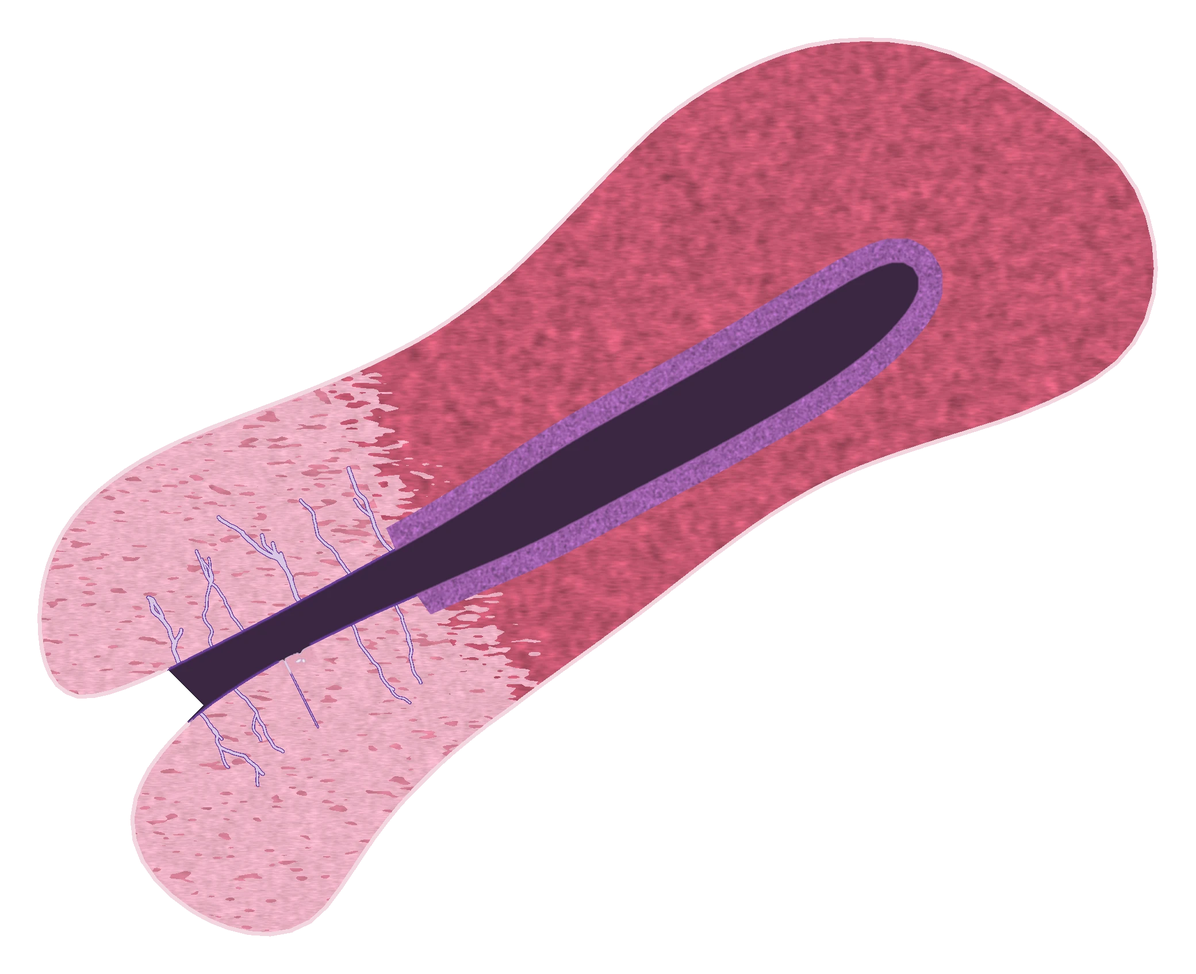
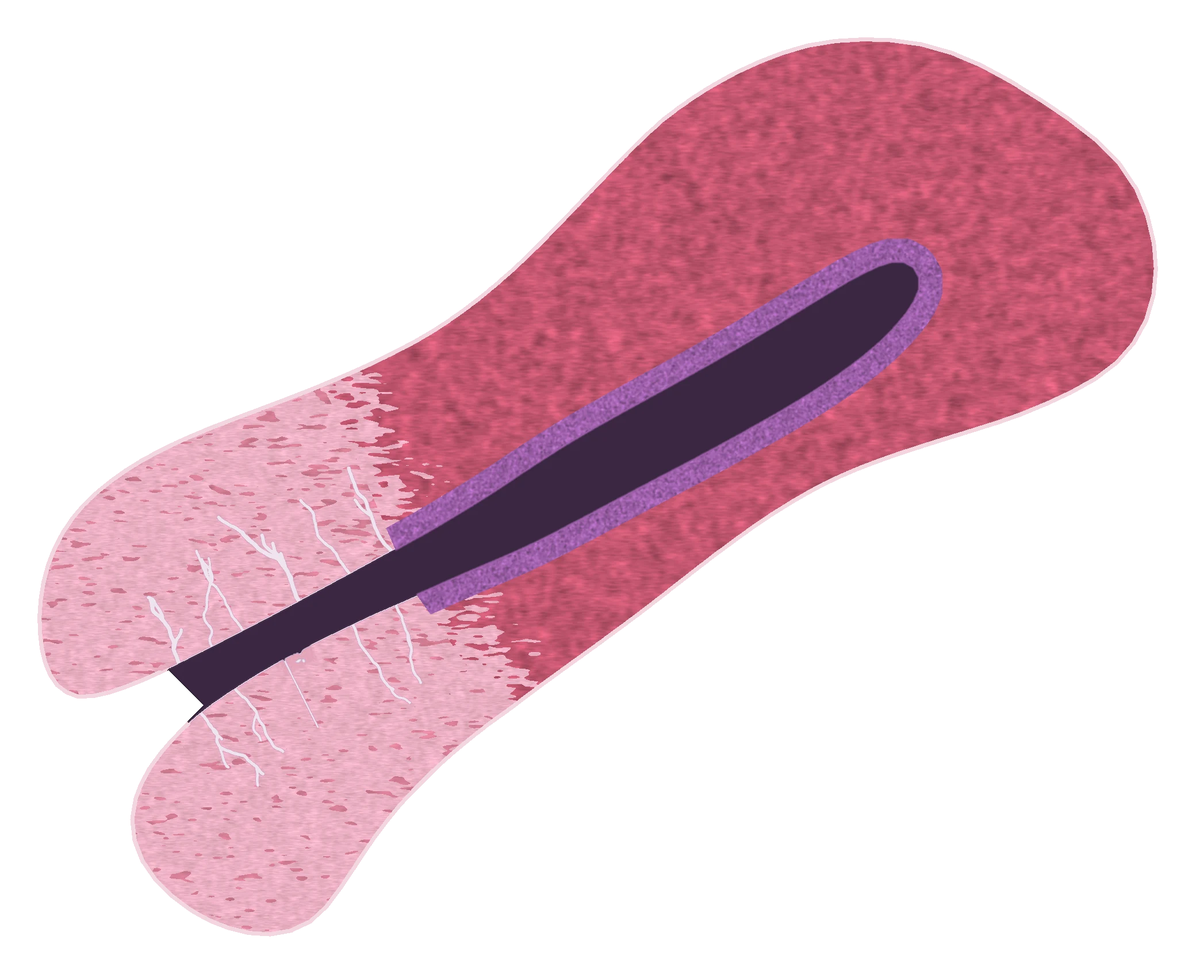
Slides say what they are, slower changes, the film comes back, matched lining
- Each photograph beside the 3D first says what it is (a heading and a line),
  then fades in; the tissue slide stays longer (Z 2.86-3.25)
- Organ to tissue slower (step 2.8, blend 2.74-2.94); organelles to molecules
  slower (step 1.5, blend 5.28-5.72, 9 s by the button)
- The film: back at the cell after going up and in again; its button checked
  at every step (it never came back before)
- Mitochondria panel fits a laptop screen: the picture sized by the screen's
  height, the buttons beside it; step 7 seen from the angle that shows both
  places the tube crosses the photograph (searched), the tube see-through
- The organ's face: the cervix's lining painted as the tissue model has it
  (pale cells, nuclei row at the base), not a purple band twice too wide; the
  sharp patch no longer differs from the face round it
- A stop within 0.12 of a level settles on it (names show only at a level)

diff --git a/js/cell3d.js b/js/cell3d.js
@@ -26,7 +26,7 @@ import { GLTFLoader } from './vendor/three/examples/jsm/loaders/GLTFLoader.js?v=
 import { OrbitControls } from './vendor/three/examples/jsm/controls/OrbitControls.js?v=0.185.1';
 import { MeshoptDecoder } from './vendor/three/examples/jsm/libs/meshopt_decoder.module.js?v=0.185.1';
 import { mergeVertices } from './vendor/three/examples/jsm/utils/BufferGeometryUtils.js?v=0.185.1';
-import { build as buildTissue } from './tissue3d.js?v=1791084893';
+import { build as buildTissue } from './tissue3d.js?v=1791086809';
 
 export const LEVELS = ['organism', 'system', 'organ', 'tissue', 'cell', 'inside', 'molecules'];
 const GROUP = { organism: 'body', system: 'body', organ: 'body', tissue: 'tissue', cell: 'cell', inside: 'inside', molecules: 'mol' };
@@ -133,10 +133,12 @@ const ahead = (s, side = 0, up = 0) => {             // a point s µm on along t
 // the detailed region (build_meshes.SCENE_UM), cell frame: the cytoplasm beside the nucleus, on its left, where the cell
 // is thickest with no nucleus over it, so the zoom dives straight down into it through the cell membrane
 const BOX = { lo: [-17.85, 0.0, -3.8], hi: [-10.35, 4.6, 3.7] };
-const SECONDS = [4, 5, 15, 8, 12, 6];                             // each step down, when a button is pressed
+const SECONDS = [4, 5, 15, 8, 12, 9];                             // each step down, when a button is pressed
 // how much scrolling each step takes (1 = the usual): organ to tissue magnifies 160 times and grows the tissue out
-// of the cut face, so it is given more (Daniel: "make the movement from organ to tissue slower")
-const STEP_LEN = [1, 1, 2.4, 1.2, 1.4, 1];
+// of the cut face, so it is given more (Daniel: "make the movement from organ to tissue slower"; and again on 4 Oct,
+// the change from the cut face to the tissue was too fast: 2.4 -> 2.8, the blend 2.74-2.94; and from the organelles to
+// the molecules, "like boom": 1 -> 1.5, the blend 5.35-5.6 -> 5.28-5.72)
+const STEP_LEN = [1, 1, 2.8, 1.2, 1.4, 1.5];
 
 const sm = (x, a, b) => THREE.MathUtils.smoothstep(x, a, b);
 // a module loaded later, tried three times (a weak connection drops one now and then; a browser remembers a failed
@@ -417,18 +419,6 @@ export async function mount(el, opts = {}) {
     tissueCol = tissue.materials.map(m => (m.color ? m.color.clone() : null));
     // (names on the cut face are for the cut face: from behind the block they are not shown)
     tissue.labels.forEach(a => anchors.push({ group: 'tissue', frame: 'tissue', p: a.p, cands: a.cands, r: a.r, text: a.text, part: a.part, z: [2.86, 3.3], free: !!a.free, face: a.p[2] > 0 }));
-    // on the way in to the cut face, names close to where the camera goes (the organ's own names, each at one
-    // place far apart, leave the screen as it comes closer): on the face, just in front of it (the organ's face is
-    // 20 µm in front of the cut), several places each, the first one on the screen is used
-    {
-      const cx = trace.block.crypt_x, xs = [0, -160, 160, -320, 320, -480, 480];
-      const near = (text, part, r, cands) => anchors.push({ group: 'body', frame: 'tissue', p: cands[0], cands, r, text, part, z: [2.3, 2.86], free: true, face: true });
-      near('Lining of the canal', 'lining_c', 120, xs.map(x => [x, -25, 21]));
-      // (the connective tissue's name left of the middle, the crypt's on the crypt to the right, lower: names go to the
-      // right of their point and must not meet)
-      near('Cervix: connective tissue', 'connective', 200, [-420, -620, -260, -820].map(x => [x, -420, 21]));
-      near('Crypt: the lining folds into the wall', 'crypt', 120, [-700, -1100, -1500, -1900, -2400].map(y => [cx, y, 21]));
-    }
     // the slice the photograph beside it shows is outlined on the block's cut face (tissue3d's frame)
     slideLine = { material: tissue.frameMat };
     // the one lining cell the zoom goes into has a group of its own: it lifts out of the tissue and spreads flat
@@ -441,8 +431,6 @@ export async function mount(el, opts = {}) {
       G.single.add(dish);
     }
     const b = tissue.target.base;
-    anchors.push({ group: 'single', frame: 'tissue', p: [b[0], b[1] + 20, b[2]], r: 12, text: 'One lining cell', part: 'tcell', z: [3.12, 3.5], free: true, nofog: true, dyn: 'single' });
-    anchors.push({ group: 'single', frame: 'tissue', p: [b[0], b[1] + 20, b[2]], r: 12, text: 'Grown in a dish, a cell like this spreads flat', part: 'tcell', z: [3.54, 3.78], free: true, nofog: true, dyn: 'single' });
     // the HeLa cell sits where that cell has spread: the middle of its base on the middle of the lifted cell's base,
     // turned a quarter turn so that its side with the organelles' box faces the reader arriving from the tissue
     P.cell.makeTranslation(b[0] - 0.9, b[1] + LIFT, b[2] - 0.5).multiply(new THREE.Matrix4().makeRotationY(Math.PI / 2));
@@ -691,15 +679,15 @@ export async function mount(el, opts = {}) {
     cap.visible = Z >= 1.4;
     // which levels are drawn, and how much of each: [layer, weight]
     // tissue to cell: first the spread lining cell becomes the HeLa cell (the tissue stays), then the tissue goes
-    const mixes = [[2.78, 2.92, LAYER.body, LAYER.tissue], [3.70, 3.80, LAYER.tissue, LAYER.dish], [3.83, 3.94, LAYER.dish, LAYER.cell],
-      [4.25, 4.40, LAYER.cell, LAYER.inside], [5.35, 5.6, LAYER.deep, LAYER.mol]];
-    const order = [[2.78, LAYER.body], [3.70, LAYER.tissue], [3.83, LAYER.dish], [4.25, LAYER.cell], [4.985, LAYER.inside], [5.35, LAYER.deep], [9, LAYER.mol]];
+    const mixes = [[2.74, 2.94, LAYER.body, LAYER.tissue], [3.70, 3.80, LAYER.tissue, LAYER.dish], [3.83, 3.94, LAYER.dish, LAYER.cell],
+      [4.25, 4.40, LAYER.cell, LAYER.inside], [5.28, 5.72, LAYER.deep, LAYER.mol]];
+    const order = [[2.74, LAYER.body], [3.70, LAYER.tissue], [3.83, LAYER.dish], [4.25, LAYER.cell], [4.985, LAYER.inside], [5.28, LAYER.deep], [9, LAYER.mol]];
     layers = null;
     for (const [a, b, A, B] of mixes) if (Z > a && Z < b) { const k = sm(Z, a, b); layers = [[A, 1 - k], [B, k]]; }
     if (!layers) layers = [[order.find(([z]) => Z <= z)[1], 1]];
     if (layers.some(([L]) => L === LAYER.mol) && !molApi) layers = [[LAYER.deep, 1]];
     for (const k in fades) fades[k] = layers.reduce((s, [L, w]) => s + (L[k] ? w : 0), 0);
-    patchK = tissue ? sm(Z, 2.4, 2.62) * (Z < 2.92 ? 1 : 0) : 0;
+    patchK = tissue ? sm(Z, 2.4, 2.62) * (Z < 2.94 ? 1 : 0) : 0;
     // the one lining cell the zoom goes into lights up; the slice the photograph shows is outlined
     // then, with the camera close, it rises out of the tissue (3.36-3.52) and spreads flat (3.52-3.70), and the HeLa
     // cell takes its place (3.70-3.80)
@@ -1060,7 +1048,8 @@ export async function mount(el, opts = {}) {
     // when the scrolling stops close to a level, the zoom settles on it (so that the picture can be turned).
     // Never during the scrolling: a trackpad moves Z a hundredth at a time.
     clearTimeout(settle);
-    settle = setTimeout(() => { const r = Math.round(Zt); if (!tween && Math.abs(Zt - r) < 0.08 && Zt !== r) { Zt = r; wake(); } }, 450);
+    // (within 0.12 of a level: the names come only at a level, so stopping just short of one would show none)
+    settle = setTimeout(() => { const r = Math.round(Zt); if (!tween && Math.abs(Zt - r) < 0.12 && Zt !== r) { Zt = r; wake(); } }, 450);
   }
   let settle = 0;
   cv.addEventListener('wheel', e => {

diff --git a/js/mitodemo.js b/js/mitodemo.js
@@ -18,7 +18,7 @@ const STEPS = [
   { ex: 0, cam: 'edge', photo: 0.82, tube: 1, text: 'The slice cuts the tube <b>at a slant</b>. That is why the photograph shows an oval, not a tube.' },
   { ex: 0, cam: 'across', photo: 0, tube: 1, cut: true, text: 'An imagined slice <b>straight across</b> the same tube would show a <b>circle</b>. One tube: a circle, an oval or a long shape, depending on how the slice cuts it.' },
   { ex: 1, cam: 'face', photo: 1, tube: 0, text: 'In the same photograph, these <b>two shapes</b> look like two different mitochondria.' },
-  { ex: 1, cam: 'sheet', photo: 0.6, tube: 1, text: 'In 3D they are <b>one mitochondrion</b>: a tube {L} µm long that passes through the slice twice.' },
+  { ex: 1, cam: 'cross', photo: 0.6, tube: 0.7, rims: true, text: 'In 3D they are <b>one mitochondrion</b>: a tube {L} µm long that passes through the slice twice.' },
 ];
 
 export async function start(el, { v = '' } = {}) {
@@ -102,6 +102,31 @@ export async function start(el, { v = '' } = {}) {
     cutGroup.userData.clip = new THREE.Plane().setFromNormalAndCoplanarPoint(E0.a.clone().negate(), E0.c);
   }
 
+  // the view that shows where a tube crosses the photograph: tried from many angles, the most slanted one (most 3D)
+  // from which every crossing on the photograph can be seen, none hidden by the tube itself (Daniel, 4 Oct: in step 7
+  // the tube in front hid the lower crossing)
+  const ray = new THREE.Raycaster();
+  function crossingView(E) {
+    if (E.crossDir) return E.crossDir;
+    // (each crossing is tested round its rim, where the tube meets the photograph: a point just outside the rim, on the
+    // photograph, must have a clear line to the camera for most of the rim)
+    const rims = E.d.outlines.map(q => {
+      const c = q.reduce((s, p) => [s[0] + p[0] / q.length, s[1] + p[1] / q.length], [0, 0]), step = Math.max(1, Math.floor(q.length / 12));
+      return q.filter((_, i) => i % step === 0).map(p => { const o = new THREE.Vector2(p[0] - c[0], p[1] - c[1]).normalize(); return new THREE.Vector3(p[0] + o.x * 0.015, p[1] + o.y * 0.015, 0); });
+    });
+    E.tube.updateMatrixWorld();
+    let best = null;
+    // (from the front only: from behind, the photograph reads mirrored)
+    for (const th of [50, 40, 30, 20]) for (let ph = 0; ph < 360; ph += 15) {
+      const t = th * Math.PI / 180, f = ph * Math.PI / 180;
+      const dir = new THREE.Vector3(Math.sin(t) * Math.cos(f), Math.sin(t) * Math.sin(f), Math.cos(t));
+      const seenShare = rims.map(r => r.filter(p => { ray.set(p.clone().addScaledVector(dir, 0.01), dir); return !ray.intersectObject(E.tube, false).length; }).length / r.length);
+      const score = 100 * Math.min(...seenShare) + 0.3 * th + 8 * dir.y;   // the crossings in view first, then slanted, from above
+      if (!best || score > best.score) best = { dir, score };
+    }
+    return (E.crossDir = best ? best.dir : new THREE.Vector3(0.3, 0.4, 1).normalize());
+  }
+
   // the views of each step
   const fov = camera.fov * Math.PI / 360;
   function viewOf(s) {
@@ -118,6 +143,10 @@ export async function start(el, { v = '' } = {}) {
     if (s.cam === 'across') {                        // looking at the cut face, a little from the side
       const dir = E.a.clone().multiplyScalar(0.8).add(side.clone().multiplyScalar(0.6)).normalize();
       return { pos: E.c.clone().addScaledVector(dir, 1.5 / Math.tan(fov)), at: E.c.clone().addScaledVector(E.a, -0.6), up: new THREE.Vector3(0, 1, 0) };
+    }
+    if (s.cam === 'cross') {                         // where the tube crosses the photograph: every crossing in view
+      const dir = crossingView(E);
+      return { pos: centre.clone().addScaledVector(dir, size * 0.8 / Math.tan(fov)), at: centre, up: new THREE.Vector3(0, 1, 0) };
     }
     if (s.cam === 'sheet') {                         // the photograph as a sheet in space, filling the view
       const dir = side.clone().multiplyScalar(0.8).add(new THREE.Vector3(0.35, 0.45, 0)).normalize();
@@ -164,6 +193,8 @@ export async function start(el, { v = '' } = {}) {
     const switching = !E.g.visible;
     ex.forEach((X, k) => { X.g.visible = k === s.ex; });
     cutGroup.visible = !!s.cut;
+    // (where the tube crosses the photograph, drawn over everything: the tube is see-through enough to show it passing)
+    for (const X of ex) { X.lineMat.depthTest = !s.rims; X.lines.renderOrder = s.rims ? 10 : 0; }
     E0.tubeMat.clippingPlanes = s.cut ? [cutGroup.userData.clip] : null; E0.tubeMat.needsUpdate = true;
     from = switching || jump || !to ? viewOf(s) : { pos: camera.position.clone(), at: look.clone(), up: camera.up.clone() };
     if (switching || jump) { camera.position.copy(from.pos); look.copy(from.at); }

diff --git a/js/intro.js b/js/intro.js
@@ -2,7 +2,7 @@
    left shows how big the view is; the caption says what each level is, in the words the exam uses.
    Each level waits for the reader: nothing moves on until a button is pressed. The film of Eric Betzig
    appears, and plays, only when the reader reaches the cell. */
-import { mount, PARTS, LEVELS, importRetry } from './cell3d.js?v=1791084893';
+import { mount, PARTS, LEVELS, importRetry } from './cell3d.js?v=1791086809';
 const VERSION = new URL(import.meta.url).searchParams.get('v') || '';   // (the page's stamp: index.html loads intro.js?v=…)
 
 const $ = (s, el = document) => el.querySelector(s);
@@ -272,7 +272,7 @@ async function openDiagram() {
   if (demo) { demo.restart(); return; }
   if (demoLoading) return;
   const box = $('#mitoDemo');
-  demoLoading = importRetry('./mitodemo.js?v=1791084893').then(m => m.start(box, { v: VERSION })).then(d => {
+  demoLoading = importRetry('./mitodemo.js?v=1791086809').then(m => m.start(box, { v: VERSION })).then(d => {
     demo = d;
     $('.md__next', box).disabled = false;
     $('.md__next', box).addEventListener('click', () => demo.next());
@@ -461,7 +461,7 @@ async function start() {
   });
   try {
     const Q = new URLSearchParams(location.search);
-    cell = await mount(gl, { v: '1791084893', test: Q.get('test') === '1',
+    cell = await mount(gl, { v: '1791086809', test: Q.get('test') === '1',
       samples: Q.has('msaa') ? Number(Q.get('msaa')) : undefined, dprCap: Q.has('dpr') ? Number(Q.get('dpr')) : undefined, depthUint: Q.get('depth') === 'u', notags: Q.get('notags') === '1' });
   } catch (e) {
     console.error(e);
@@ -477,23 +477,37 @@ async function start() {
     .on('hover', showTip)
     .on('z', z => {
       // the real thing beside the model: the light micrograph at the tissue, the electron micrograph among the organelles
-      const m = z > 2.9 && z <= 3.12, m2 = z > 3.12 && z < 3.4, e = z > 4.62 && z < 5.38;
+      // (each stays for a good stretch of the zoom, and says what it is before it appears: .is-in)
+      const m = z > 2.86 && z <= 3.25, m2 = z > 3.25 && z < 3.42, e = z > 4.62 && z < 5.38;
       if ($('#micro').hidden === m || $('#micro2').hidden === m2 || $('#emfig').hidden === e) {
-        $('#micro').hidden = !m; $('#micro2').hidden = !m2; $('#emfig').hidden = !e;
+        for (const [f, on] of [[$('#micro'), m], [$('#micro2'), m2], [$('#emfig'), e]]) {
+          if (f.hidden !== on) continue;
+          f.hidden = !on; f.classList.remove('is-in');
+          if (on) requestAnimationFrame(() => requestAnimationFrame(() => f.classList.add('is-in')));
+        }
         if (!$('#micro2').hidden) fitPins($('#micro2'));
         if (!$('#micro').hidden) requestAnimationFrame(() => callouts($('#micro')));
-        // the film and the micrograph share the top right: the film steps aside, and its button comes back after
-        if (e) { video.pause(); $('#film').hidden = true; $('#filmPill').hidden = true; }
-        else if (filmPlayed && z >= 3.5 && $('#film').hidden) $('#filmPill').hidden = false;
+        // the film and the micrograph share the top right: the film steps aside
+        if (e) { video.pause(); $('#film').hidden = true; }
         fitCap();
       }
+      // the film's button, whenever the film has been seen, is closed, and the reader is at the cell or below (checked at
+      // every step: checked only when a photograph came or went, it never came back after going back up and in again)
+      const pill = filmPlayed && z >= 3.5 && !e && $('#film').hidden;
+      if ($('#filmPill').hidden === pill) $('#filmPill').hidden = !pill;
     })
     .on('scale', s => {
       const sb = $('#scalebar'); $('i', sb).style.width = Math.round(s.px) + 'px'; $('span', sb).textContent = s.label;
       // the ruler's marker follows the real width of the view
       if (!busy) setNow(zoom.clientWidth / s.px * s.um * 1e-6);
     });
-  cell.on('arrive', l => { if (l === 'cell' && !filmPlayed) { filmPlayed = true; playFilm(true); } });
+  // the film plays by itself the first time the reader reaches the cell; coming back to the cell, it is there again,
+  // paused where it was (Daniel, 4 Oct: after going back and in again, the film had gone)
+  cell.on('arrive', l => {
+    if (l !== 'cell') return;
+    if (!filmPlayed) { filmPlayed = true; playFilm(true); }
+    else if ($('#film').hidden) { $('#film').hidden = false; $('#filmPill').hidden = true; fitCap(); }
+  });
   cell.on('progress', f => { $('#loadBar').style.width = Math.round(f * 100) + '%'; });
   cell.insideReady.then(fillCounts);
 }

diff --git a/css/app.css b/css/app.css
@@ -192,6 +192,15 @@ a{color:inherit}
 @media (max-height:780px){.micro figcaption{display:none}}
 .micro--em .micro__img img{width:100%;height:auto}
 .micro__over{position:absolute;inset:0}
+/* each slide says what it is first, then appears (Daniel, 4 Oct: the slides came in too fast, with nothing to say what
+   they were): .is-in is set a frame after the figure is shown */
+.micro__intro{margin:0;padding:10px 12px 8px;font-size:12.5px;line-height:1.4;color:#C7D2DC;opacity:0;transform:translateY(-6px);transition:opacity .35s,transform .35s}
+.micro__intro b{display:block;font-size:14.5px;color:var(--accent);margin-bottom:2px}
+.micro--callouts .micro__intro{grid-column:1/-1;width:0;min-width:100%;box-sizing:border-box}
+.micro .micro__img,.micro .micro__labels,.micro .micro__lines,.micro .key,.micro figcaption{opacity:0;transition:opacity .5s .45s}
+.micro.is-in .micro__intro{opacity:1;transform:none}
+.micro.is-in .micro__img,.micro.is-in .micro__labels,.micro.is-in .micro__lines,.micro.is-in .key,.micro.is-in figcaption{opacity:1}
+@media (prefers-reduced-motion:reduce){.micro__intro,.micro .micro__img,.micro .micro__labels,.micro .micro__lines,.micro .key,.micro figcaption{transition:none}}
 .key{list-style:none;margin:0;padding:7px 10px 0;display:flex;flex-wrap:wrap;gap:3px 10px}
 .key li{font-size:11.5px;color:#DCE3EA;display:flex;align-items:center;gap:5px}
 .key li::before{content:"";width:10px;height:10px;border-radius:50%;background:var(--c)}
@@ -249,15 +258,17 @@ a{color:inherit}
 .cap__notice::after{content:" →"}
 .cap__notice:hover{background:rgba(251,191,36,.22)}
 .about--wide{width:min(980px,calc(100% - 24px))}
-.md__answer{font-size:16px!important;background:#FFF4D6;border-left:4px solid #D97706;padding:10px 12px;border-radius:8px}
-.md{display:grid;grid-template-columns:minmax(0,1.3fr) minmax(0,1fr);gap:18px;margin:6px 0 14px}
-.md__stage{position:relative;aspect-ratio:1/1;border-radius:12px;overflow:hidden;background:#0E141B}
+.md__answer{font-size:15px!important;background:#FFF4D6;border-left:4px solid #D97706;padding:8px 12px;border-radius:8px}
+/* (the picture is sized by the screen's height and the buttons sit just under the step's words, beside it: on a
+   laptop the panel was taller than the screen and "Next step" had to be scrolled to, Daniel 4 Oct) */
+.md{display:grid;grid-template-columns:auto minmax(0,1fr);gap:18px;margin:6px 0 14px;align-items:start}
+.md__stage{position:relative;height:min(50vh,470px);aspect-ratio:1/1;border-radius:12px;overflow:hidden;background:#0E141B}
 .md__stage canvas{display:block;width:100%;height:100%}
 .md__tag{position:absolute;left:0;top:0;font-size:12px;font-weight:600;color:#fff;background:rgba(14,20,27,.72);
          border:1px solid rgba(255,255,255,.18);padding:2px 7px;border-radius:6px;pointer-events:none;white-space:nowrap}
 .md__side{display:flex;flex-direction:column;gap:10px}
 .md__count{font:12px var(--mono);color:#A16207;letter-spacing:.06em;text-transform:uppercase;margin:0!important}
-.md__text{font-size:16.5px!important;line-height:1.55!important;margin:0!important;flex:1}
+.md__text{font-size:16.5px!important;line-height:1.55!important;margin:0!important}
 .md__btns{display:flex;gap:8px;flex-wrap:wrap}
 .md__btns button{border-radius:999px;padding:9px 18px;font-size:14px;cursor:pointer;background:#F3EEE4;color:#1A1A1A;border:1px solid #E2D8C6}
 .md__btns .md__next{background:#14572B;border-color:#14572B;color:#fff}
@@ -267,7 +278,7 @@ a{color:inherit}
 
 /* ---------- phones and narrow windows ---------- */
 @media (max-width:760px){
-  .md{grid-template-columns:1fr}
+  .md{grid-template-columns:1fr} .md__stage{height:38vh;width:100%;aspect-ratio:auto}
   .about--wide{padding:18px 16px}
   .top{padding:9px 12px 20px}
   .top__title{font-size:18px}

diff --git a/index.html b/index.html
@@ -17,7 +17,7 @@
 <link rel="stylesheet" media="print" onload="this.media='all'"
       href="https://fonts.googleapis.com/css2?family=IBM+Plex+Mono:wght@400;500&family=Inter:wght@400;500;600;700&display=swap">
 <noscript><link rel="stylesheet" href="https://fonts.googleapis.com/css2?family=IBM+Plex+Mono:wght@400;500&family=Inter:wght@400;500;600;700&display=swap"></noscript>
-<link rel="stylesheet" href="css/app.css?v=1791084893">
+<link rel="stylesheet" href="css/app.css?v=1791086809">
 </head>
 <body>
 <main class="zoom" id="zoom">
@@ -68,6 +68,7 @@
 
   <!-- the real tissue beside the model: the slice outlined on the model's front face, seen through a light microscope -->
   <figure class="micro micro--callouts" id="micro" hidden>
+    <p class="micro__intro"><b>The real tissue, on a slide</b>A very thin slice of the lining of a cervix, stained and photographed through a light microscope. The model is traced from it.</p>
     <div class="micro__labels" aria-hidden="true"></div>
     <div class="micro__img">
       <img src="assets/tissue/endocervix-tissue.jpg?v=2" alt="A photograph through a light microscope of the lining of the cervix, stained pink and purple" width="1100" height="1692">
@@ -83,6 +84,7 @@
 
   <!-- closer, as the zoom goes into one lining cell: the same tissue at a higher magnification -->
   <figure class="micro micro--wide" id="micro2" hidden>
+    <p class="micro__intro"><b>Closer, on the same slide</b>Through a stronger lens: the lining cells, side by side.</p>
     <div class="micro__img">
       <img src="assets/tissue/endocervix-cells.jpg?v=2" alt="A closer photograph through a light microscope: tall lining cells side by side, each with its nucleus, and connective tissue below them" width="789" height="375">
       <b class="pin" style="left:48.2%;top:24%;--c:#d9b3cc"><i></i>One lining cell</b>
@@ -95,6 +97,7 @@
 
   <!-- the real cell beside the organelles: one electron-microscope slice of this same cell, the green frame in the 3D -->
   <figure class="micro micro--em" id="emfig" hidden>
+    <p class="micro__intro"><b>This cell, under an electron microscope</b>One real slice of the same cell, much thinner than a light microscope's slide.</p>
     <div class="micro__img">
       <img src="assets/cell/em-section.webp?v=6" alt="An electron micrograph: one slice through this HeLa cell, from the glass up. The cell membrane is at the top, the nucleus on the right, the cytoplasm in between, full of mitochondria and endoplasmic reticulum" width="750" height="400">
       <img class="micro__over" src="assets/cell/em-section-outline.png?v=6" alt="" width="750" height="400">
@@ -218,7 +221,7 @@
   <p class="fineprint">Something wrong, or a suggestion? Please contact me: <a href="mailto:dmompelriera@nlcsjeju.kr">dmompelriera@nlcsjeju.kr</a>. Checked against the Cambridge IGCSE Biology 0610 syllabus for 2026–2028.</p>
 </dialog>
 
-<script src="js/topics.js?v=1791084893"></script>
-<script type="module" src="js/intro.js?v=1791084893"></script>
+<script src="js/topics.js?v=1791086809"></script>
+<script type="module" src="js/intro.js?v=1791086809"></script>
 </body>
 </html>

diff --git a/tools/model-build/build_section.py b/tools/model-build/build_section.py
@@ -102,7 +102,7 @@ img = np.zeros((H, W, 4), np.float32)
 # muscle (uterus): interlacing bundles; connective tissue (cervix): paler, finely fibrous, a few muscle bundles
 bundles = smooth_noise(6) * 0.6 + smooth_noise(2, (1, 4)) * 0.4
 fibres = smooth_noise(1.2, (0.6, 3)) * 0.6 + smooth_noise(4) * 0.4
-MUSCLE, CT, LINING_U, EPI, COVER, LUMEN, CRYPT_L = (hexc(c) for c in ("#C2566F", "#EBB0C3", "#9C5FA8", "#6A3F9C", "#F4D6DF", "#3B2742", "#D9C6E3"))
+MUSCLE, CT, LINING_U, EPI, COVER, LUMEN, CRYPT_L = (hexc(c) for c in ("#C2566F", "#EBB0C3", "#9C5FA8", "#6A3F9C", "#F4D6DF", "#3B2742", "#EFE4EF"))
 ut = wall & (organ == 1); cx = wall & (organ == 2)
 img[..., :3][ut] = MUSCLE[None] * (1 + 0.09 * bundles[ut, None])
 img[..., :3][cx] = CT[None] * (1 + 0.045 * fibres[cx, None])
@@ -171,15 +171,31 @@ for i in RNG.permutation(len(ey)):
     done.append((r, c))
     grow(float(r), float(c), into_wall(r, c), RNG.uniform(3.0, 5.0), RNG.uniform(0.09, 0.14) / (PX * 1000))
 crypt &= cx; lumen &= crypt
-img[..., :3][crypt] = EPI[None]
+# The cervix's lining (on the canal and in the crypts) is painted as the tissue model has it, at this scale (30 µm a
+# pixel; measured on the model's face, bake-face.js): tall pale cells 40 µm, their nuclei in a row near the base. So,
+# from the open space into the wall: one pale pixel (the cells), then one of the nuclei's row mixed with connective
+# tissue. A solid purple band 90 µm wide was painted before, and the model, where it is drawn over the face on the way
+# in, did not match it (Daniel, 4 Oct: "why is that different?")
+LIN_TOP, LIN_BASE = hexc("#ECD9E7"), hexc("#D19FC2")
+crypt_wall = crypt & ~lumen
+crypt_in = crypt_wall & ndimage.binary_dilation(lumen, iterations=1)
+crypt_out = crypt_wall & ~crypt_in
+thin = crypt_in & ndimage.binary_dilation(cx & ~crypt, iterations=1)       # one pixel thick: both at once
+img[..., :3][crypt_out] = LIN_BASE[None]
+img[..., :3][crypt_in] = LIN_TOP[None]
+img[..., :3][thin] = (0.5 * (LIN_TOP + LIN_BASE))[None]
 img[..., :3][lumen] = CRYPT_L[None]
-img[..., :3][canal_edge] = EPI[None]
+# (on the canal: the first pixel of the wall is the cells, the next the nuclei's row; the surface is where the tissue
+# model has it, the dive point, so the two meet without a step)
+lin_base = cx & ~crypt & ndimage.binary_dilation(canal_edge, iterations=1) & ~canal_edge
+img[..., :3][lin_base] = LIN_BASE[None]
+img[..., :3][canal_edge] = LIN_TOP[None]
 cover = wall & (d_out < 0.15)
 img[..., :3][cover] = COVER[None]
 img[..., :3][cavity] = LUMEN[None]
 # the surface of the cavity and the canal (the line the Atlas's inner surface makes) is lining too: left unpainted, it
 # was a black, stepped edge when the zoom came close; and the edge is softened over a pixel either side
-img[..., :3][line_i & (organ == 2)] = EPI[None]
+img[..., :3][line_i & (organ == 2)] = LUMEN[None]                        # (the canal, up to its lining)
 img[..., :3][line_i & (organ == 1)] = LINING_U[None]
 rim = ndimage.binary_dilation(cavity, iterations=2) & ndimage.binary_dilation(~cavity, iterations=2) & inside
 soft = np.stack([ndimage.gaussian_filter(img[..., k], 1.0) for k in range(3)], -1)
@@ -231,7 +247,8 @@ Image.fromarray(img.astype(np.uint8), "RGBA").save(OUT + "section.webp", quality
 # which tissue each point is, for naming what the pointer is on: 0 outside, 1 muscle, 2 lining of the uterus,
 # 3 connective tissue, 4 lining of the cervix (with its crypts), 5 outer covering, 6 cavity or canal
 reg = np.zeros((H, W), np.uint8)
-reg[ut | mb] = 1; reg[ct_in | (cx & ~mb)] = 3; reg[el] = 2; reg[crypt | canal_edge] = 4; reg[cover] = 5; reg[cavity] = 6
+reg[ut | mb] = 1; reg[ct_in | (cx & ~mb)] = 3; reg[el] = 2; reg[crypt | canal_edge | lin_base] = 4; reg[cover] = 5; reg[cavity] = 6
+reg[line_i & (organ == 2)] = 6; reg[line_i & (organ == 1)] = 2
 reg[inface] = face_reg[inface]
 reg[~inside] = 0
 # (at half size, and where any of the four pixels is lining, lining: at a quarter size most of the crypts, a few

diff --git a/assets/CREDITS.md b/assets/CREDITS.md
@@ -29,7 +29,9 @@ Inside the wall the layers are drawn, not measured, at the widths histology desc
 0.15 mm; in the cervix, mostly connective tissue with bundles of smooth muscle, and crypts of the canal's lining
 3–5 mm deep (IARC Screening Group's atlas, "Anatomical considerations – columnar epithelium",
 screening.iarc.fr).
-Coloured as a slide stained with haematoxylin and eosin. Round the place the zoom goes in (the 2 mm of the tissue
+Coloured as a slide stained with haematoxylin and eosin; the lining of the cervix (on the canal and in its crypts) is
+painted as the tissue model has it, at this scale: a row of pale cells and, at their base, the row of their nuclei (a
+solid purple band, twice too wide, was painted until 4 Oct 2026). Round the place the zoom goes in (the 2 mm of the tissue
 model's block), the face is painted from the model's own front face (`tools/model-build/bake-face.js`, drawn flat
 at 1 µm a pixel): its surface with the small folds, the glands cut across, and the crypt 0.64 mm from the middle,
 which carries on into the wall as one of the painted crypts. On the way in, the model itself is drawn over that
